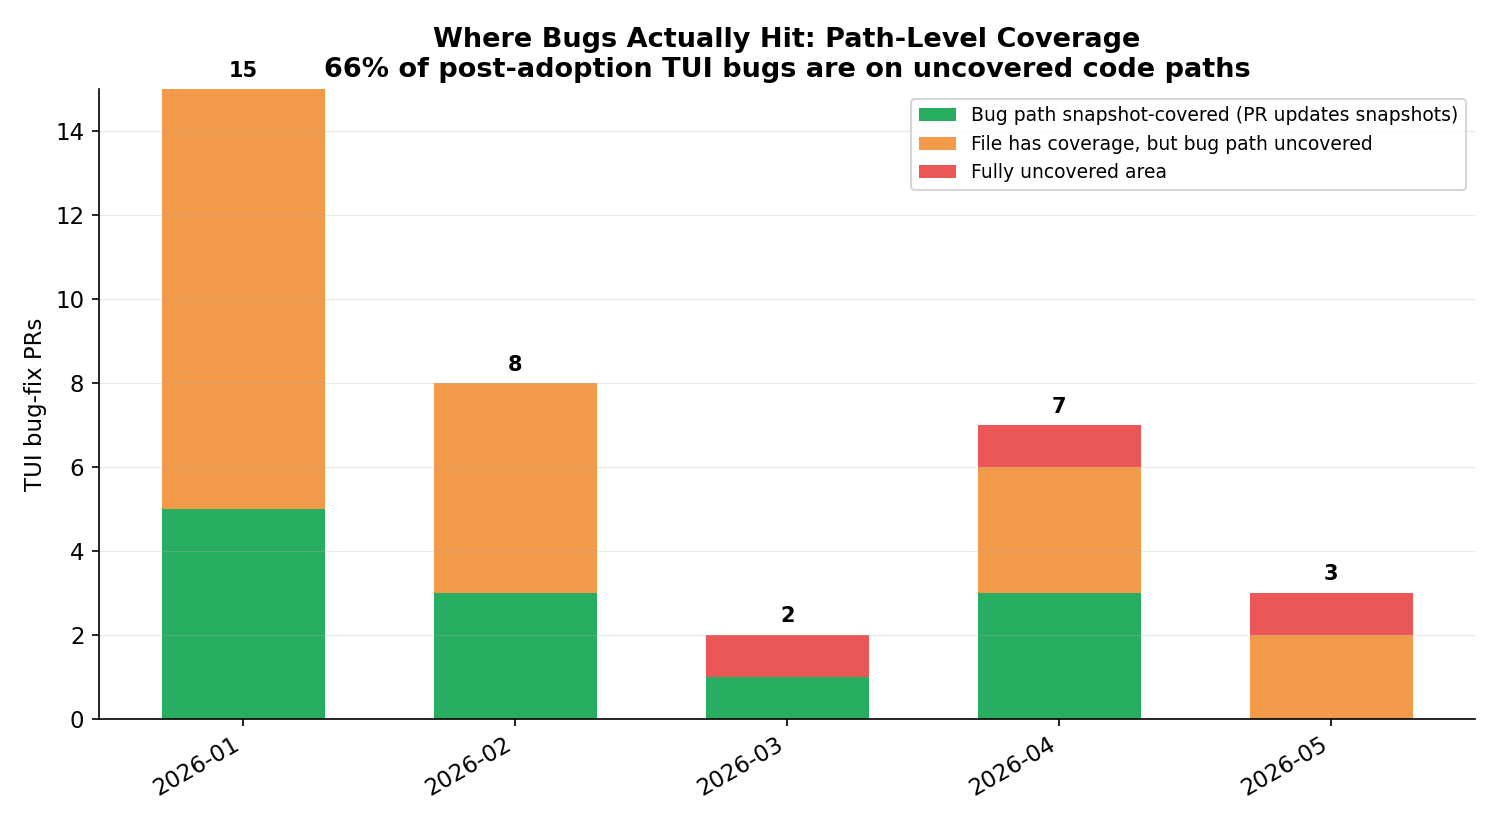
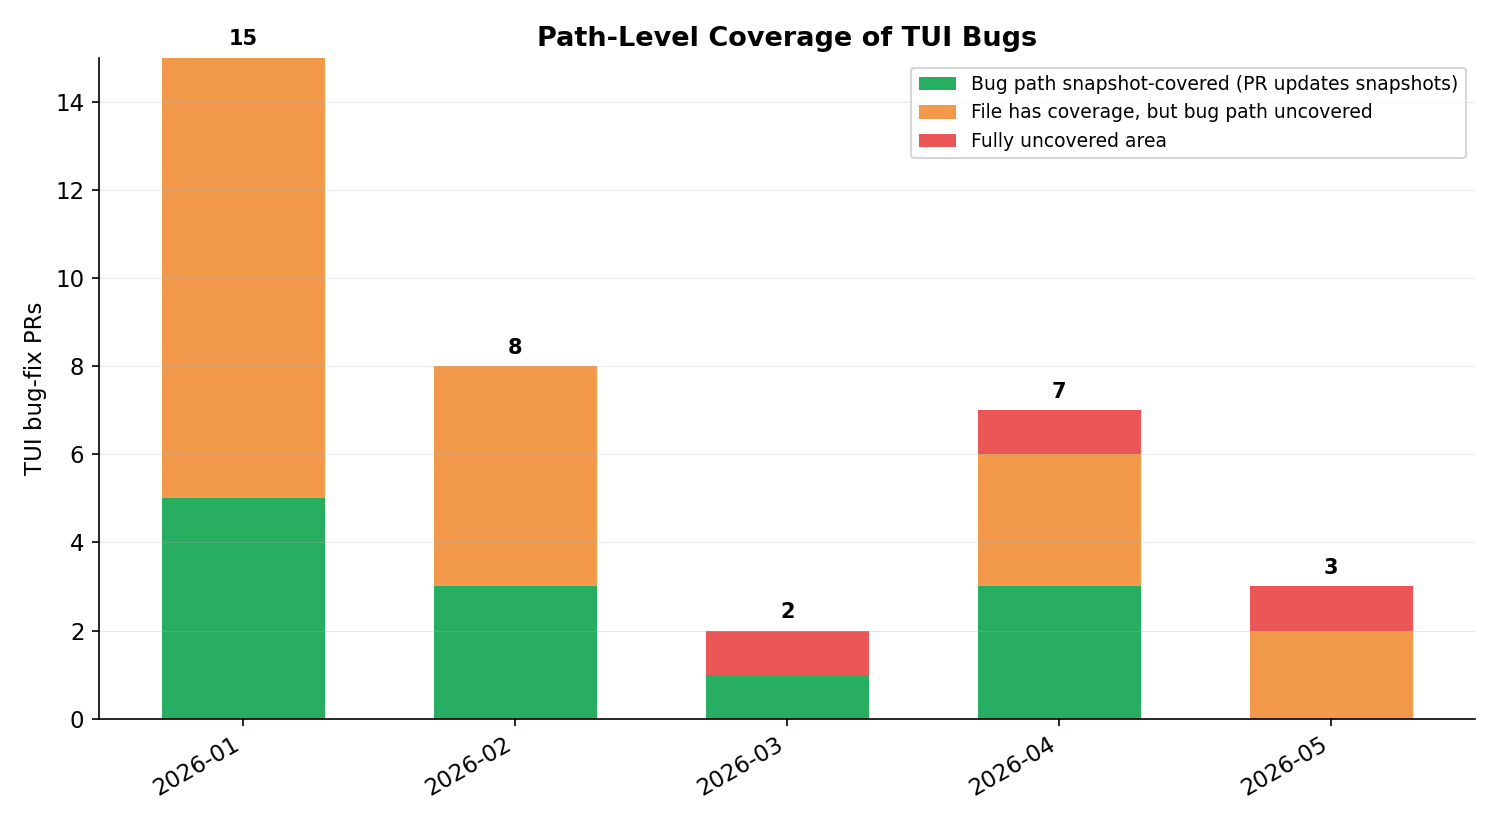
Simplify graph titles: remove subtitle interpretations
Drop second-line subtitles that restate conclusions already in blog
body text. Titles now label the chart; body text argues about it.

diff --git a/scripts/generate_deep_analysis_graphs.py b/scripts/generate_deep_analysis_graphs.py
@@ -291,8 +291,7 @@ def fig_forcing_function(rows, full, out):
     ax.set_xticklabels(months, rotation=30, ha="right")
     ax.set_ylabel("% of TUI PRs including snapshot updates")
     ax.set_ylim(-5, 105)
-    ax.set_title("Snapshot as Forcing Function\n"
-                 "What fraction of TUI-changing PRs update snapshot baselines?")
+    ax.set_title("Snapshot as Forcing Function")
     ax.legend()
     fig.tight_layout()
     fig.savefig(out / "deep_4_forcing_function.png", dpi=150)
@@ -397,7 +396,7 @@ def fig_review_speed(rows, full, out):
     ax.set_ylabel("Median lines changed")
     ax.set_title("PR Size\n(TUI PRs, post-adoption)")
 
-    fig.suptitle("Snapshot PRs: Faster Reviews Despite Being Larger", fontsize=14,
+    fig.suptitle("Time to First Review vs PR Size", fontsize=14,
                  fontweight="bold", y=1.02)
     fig.tight_layout()
     fig.savefig(out / "deep_6_review_speed.png", dpi=150, bbox_inches="tight")
@@ -613,8 +612,7 @@ def fig_bug_rate_with_context(rows, full, out):
     ax.set_xticks(x)
     ax.set_xticklabels(months, rotation=30, ha="right")
     ax.set_ylabel("UX-regression bugs / cumulative TUI features", fontsize=10)
-    ax.set_title("UX Regression Rate Normalized by Codebase Size\n"
-                 "Bugs per feature dropped from 0.45 to 0.02–0.10 post-adoption")
+    ax.set_title("UX Regression Rate Normalized by Codebase Size")
     ax.legend(fontsize=10)
     ax.set_ylim(-0.02, max(ux_per_feat) * 1.25)
 
@@ -839,8 +837,7 @@ def fig_bugfix_domain(rows, full, out):
     ax.set_yticks(y)
     ax.set_yticklabels(labels, fontsize=10)
     ax.set_xlabel("Number of bug-fix PRs")
-    ax.set_title(f"Bug-Fixes by Code Domain (n={len(bugfixes)})\n"
-                 "35% of bugs are non-visual — snapshots can't help there")
+    ax.set_title(f"Bug-Fixes by Code Domain (n={len(bugfixes)})")
     ax.invert_yaxis()
     ax.legend(fontsize=9, loc="lower right")
     fig.tight_layout()
@@ -890,8 +887,7 @@ def fig_severity_by_domain(rows, full, out):
     ax.set_xticks(x)
     ax.set_xticklabels(sev_labels, fontsize=11)
     ax.set_ylabel("Bug-fix PRs")
-    ax.set_title("Bug Severity by Domain\n"
-                 "44% of critical bugs are non-visual (snapshots irrelevant)")
+    ax.set_title("Bug Severity by Domain")
     ax.legend(fontsize=10)
     ax.set_ylim(0, max(max(vis_counts), max(nonvis_counts)) * 1.4)
     fig.tight_layout()
@@ -940,8 +936,7 @@ def fig_bugfix_coverage_gap(rows, full, out):
     ax.set_yticks(range(len(labels)))
     ax.set_yticklabels(labels, fontsize=10)
     ax.set_xlabel("Number of bug-fix PRs")
-    ax.set_title(f"Bug-Fix PRs: Snapshot Coverage Gap (n={len(all_bugs)})\n"
-                 "85% of bug-fixes ship without adding or updating snapshot coverage")
+    ax.set_title(f"Bug-Fix PRs: Snapshot Coverage Gap (n={len(all_bugs)})")
     ax.invert_yaxis()
     fig.tight_layout()
     fig.savefig(out / "deep_13_bugfix_coverage_gap.png", dpi=150)
@@ -986,8 +981,7 @@ def fig_snapshot_guarding(rows, full, out):
     ax.set_xticks(x)
     ax.set_xticklabels([t.replace("-", "\n").title() for t in types], fontsize=11)
     ax.set_ylabel("Snapshot-fix commits (later in PR)")
-    ax.set_title("Existing Snapshots Guarding Behavior\n"
-                 '"Code first, fix snapshots later" commits by PR type')
+    ax.set_title('"Code First, Fix Snapshots Later"')
     ax.set_ylim(0, max(event_vals) * 1.35)
     fig.tight_layout()
     fig.savefig(out / "deep_14_snapshot_guarding.png", dpi=150)
@@ -1060,8 +1054,7 @@ def fig_covered_vs_uncovered(rows, full, out):
     ax.set_xticks(x)
     ax.set_xticklabels(months, rotation=30, ha="right")
     ax.set_ylabel("TUI bug-fix PRs")
-    ax.set_title("Where Bugs Actually Hit: Path-Level Coverage\n"
-                 "66% of post-adoption TUI bugs are on uncovered code paths")
+    ax.set_title("Path-Level Coverage of TUI Bugs")
     ax.legend(fontsize=9, loc="upper right")
     fig.tight_layout()
     fig.savefig(out / "deep_15_covered_vs_uncovered.png", dpi=150)

diff --git a/scripts/analyze_indirect_coverage.py b/scripts/analyze_indirect_coverage.py
@@ -516,8 +516,7 @@ def generate_graph(b1_count, b2_count, b3_count, cat_a_count, cat_c_count, out_d
     ax.set_yticks(range(len(labels)))
     ax.set_yticklabels(labels, fontsize=10)
     ax.set_xlabel("Post-adoption TUI bug-fix PRs")
-    ax.set_title(f"Reclassified Path-Level Coverage (n={total})\n"
-                 "Accounting for indirect coverage from snapshot test flows")
+    ax.set_title(f"Reclassified Path-Level Coverage (n={total})")
     ax.invert_yaxis()
     fig.tight_layout()
     fig.savefig(out_dir / "deep_18_reclassified_coverage.png", dpi=150)

diff --git a/scripts/generate_graphs.py b/scripts/generate_graphs.py
@@ -280,7 +280,7 @@ def fig_critical_bug_rate_timeline(rows, out):
     ax.set_xticks(x)
     ax.set_xticklabels(months, rotation=30, ha="right")
     ax.set_ylabel("% of agent PRs")
-    ax.set_title("Agent Bug Rate Over Time (Critical vs UX Regression)")
+    ax.set_title("Agent Bug Rate Over Time")
     ax.legend()
     fig.tight_layout()
     fig.savefig(out / "5_bug_rate_timeline.png", dpi=150)
